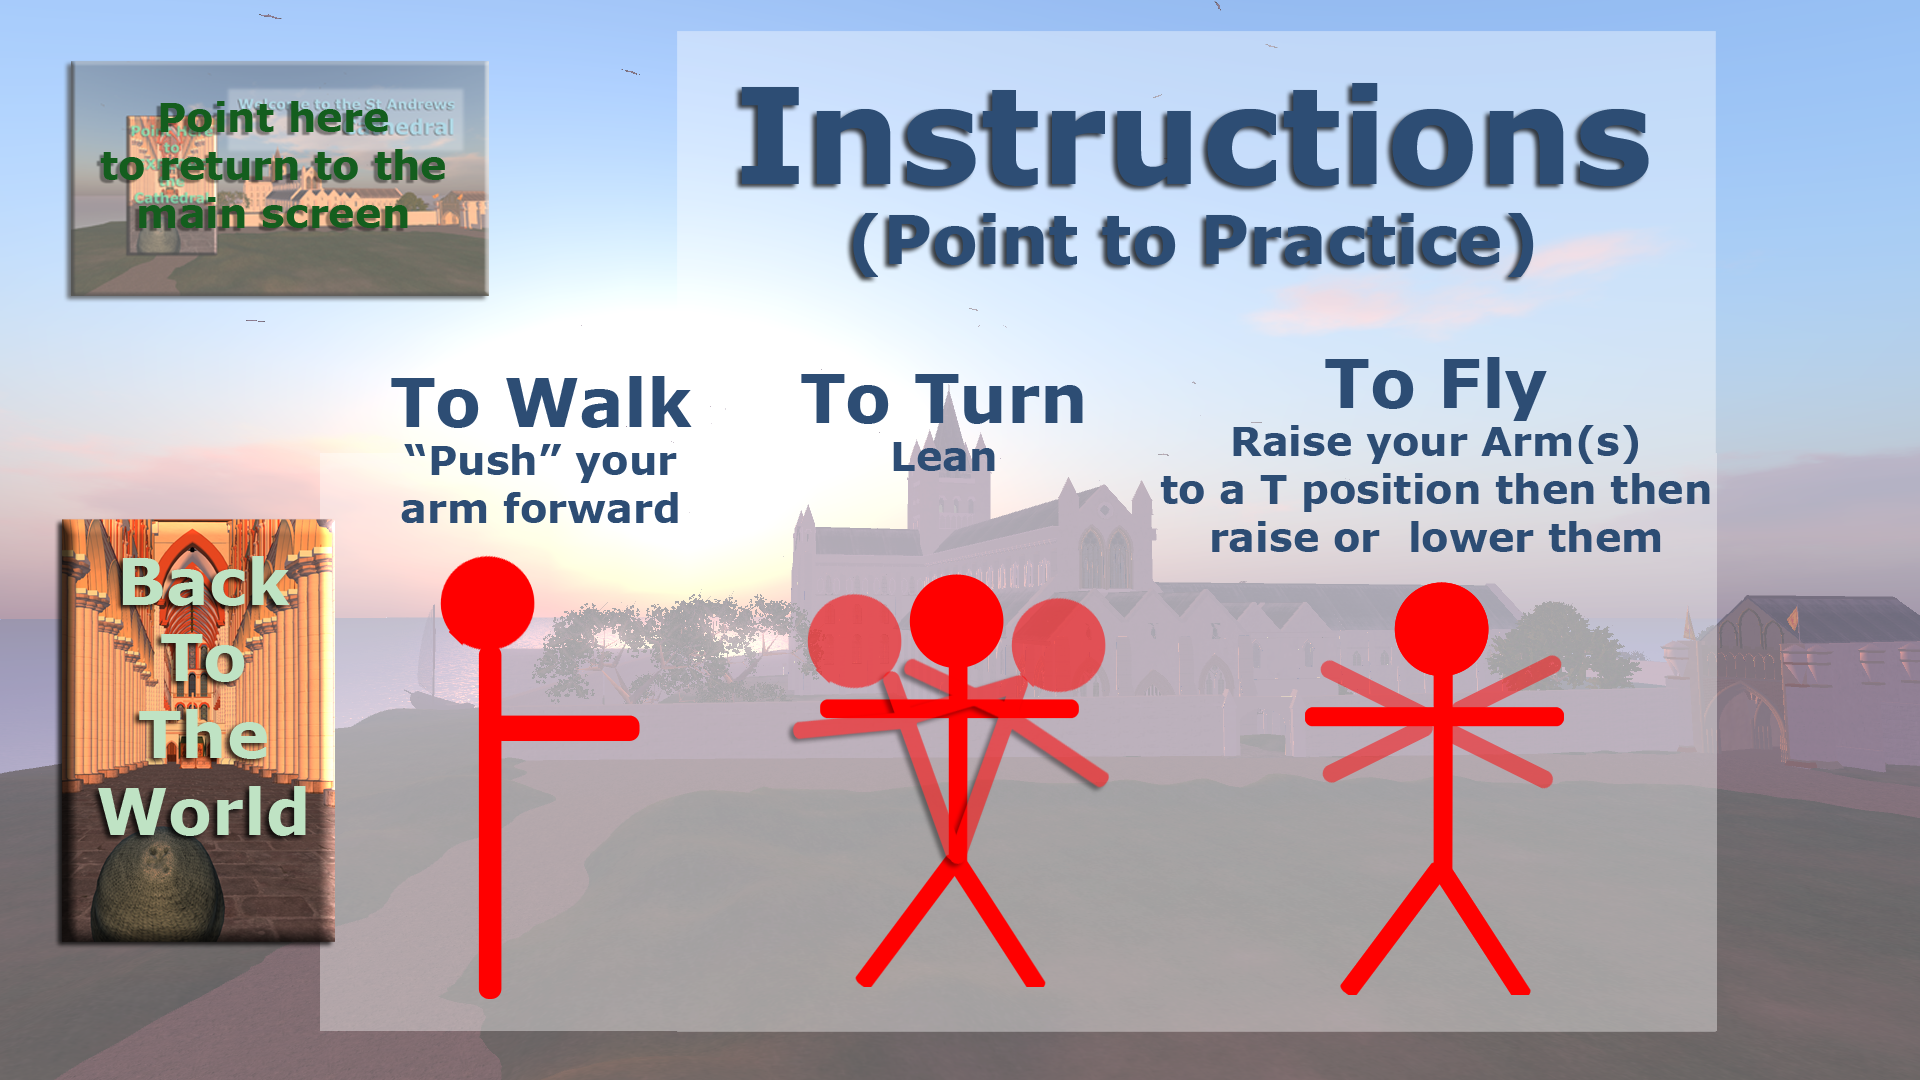
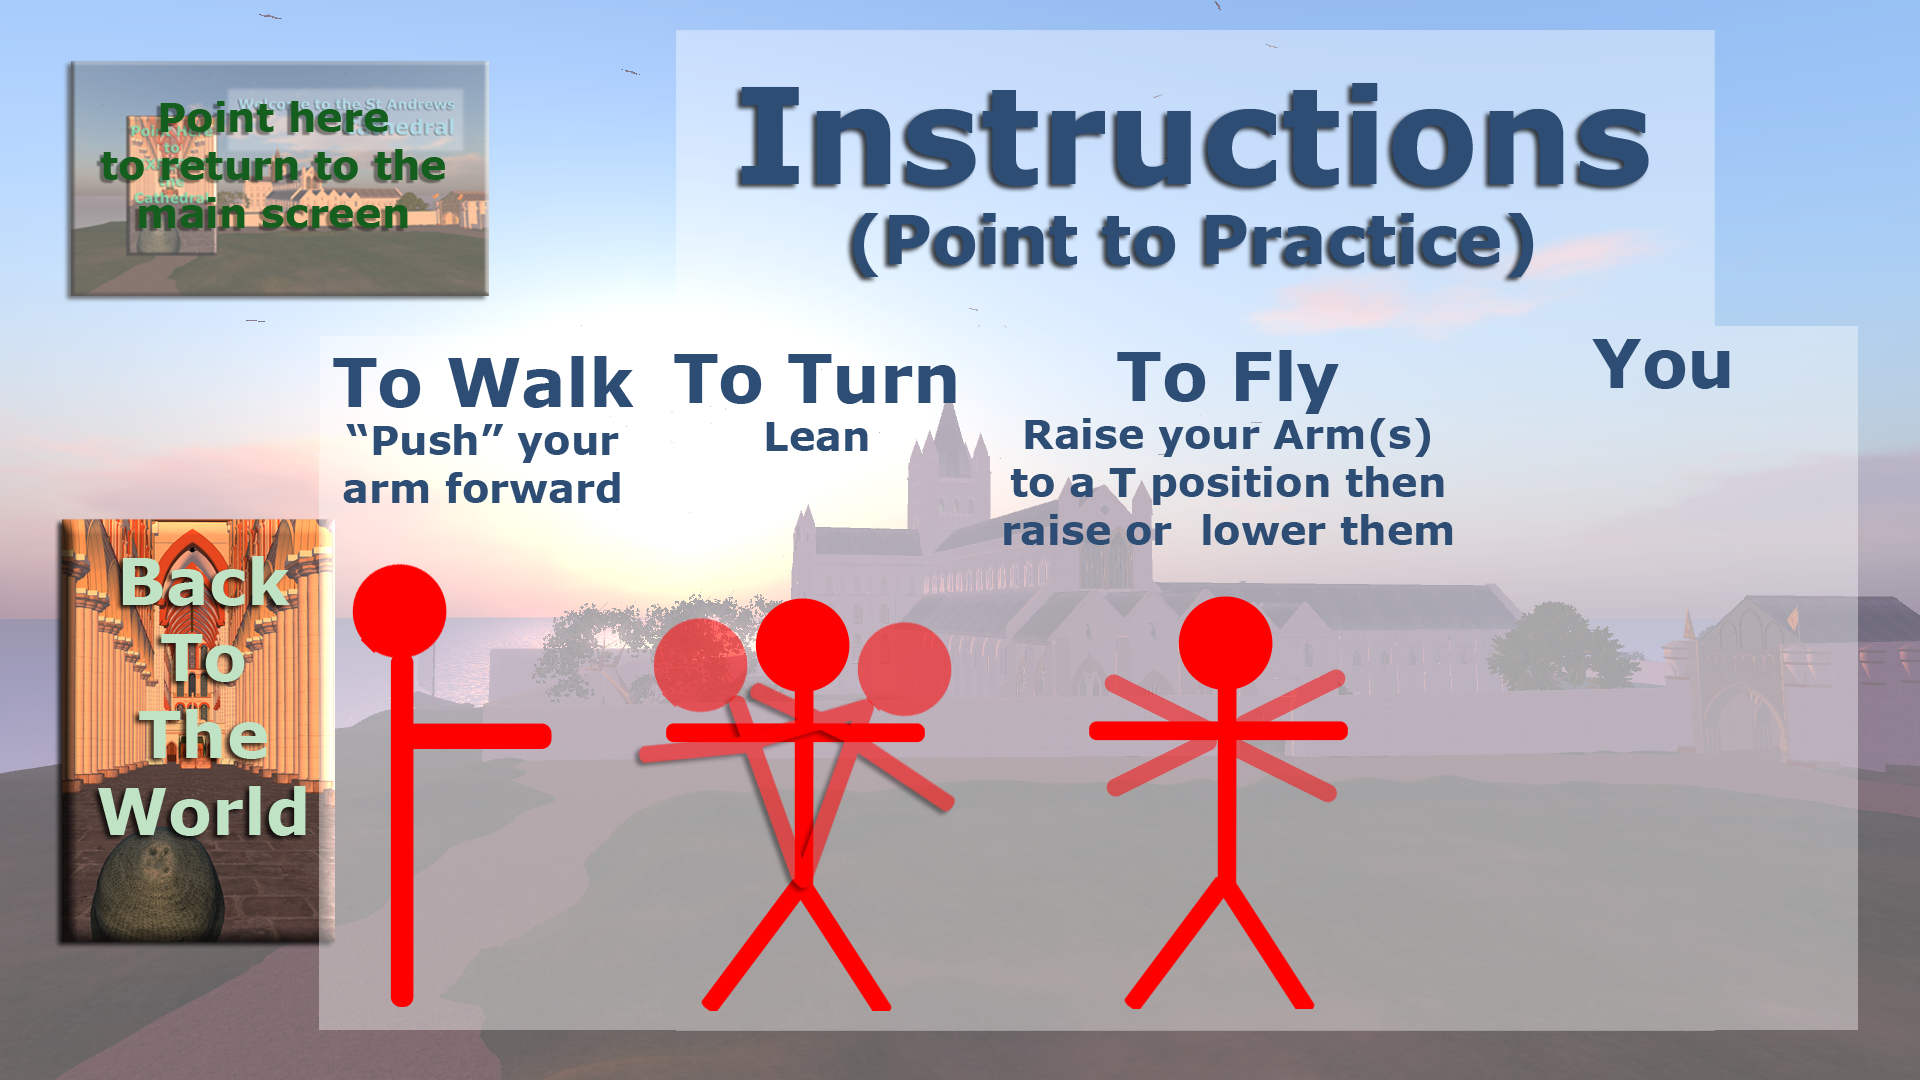
Switched to Cathedral config.

diff --git a/Src/LauncherLib/SimpleOverlay.cs b/Src/LauncherLib/SimpleOverlay.cs
@@ -102,7 +102,8 @@ namespace Chimera.GUI.Forms {
         /// <summary>
         /// The flythrough to load whilst nothing else is happening.
         /// </summary>
-        private string mIntroFlythrough = "../Caen-long.xml";
+        //private string mIntroFlythrough = "../Caen-long.xml";
+        private string mIntroFlythrough = "../CathedralFlythrough-LookAt.xml";
         /// <summary>
         /// The flythrough controller.
         /// </summary>
@@ -115,13 +116,13 @@ namespace Chimera.GUI.Forms {
         /// <summary>
         /// The main menu image.
         /// </summary>
-        private Bitmap mMainMenuImage = new Bitmap("../Images/CaenSplashScreen.png");
-        //private Bitmap mMainMenuImage = new Bitmap("../Images/CathedralSplashScreen.png");
+        //private Bitmap mMainMenuImage = new Bitmap("../Images/CaenSplashScreen.png");
+        private Bitmap mMainMenuImage = new Bitmap("../Images/CathedralSplashScreen.png");
         /// <summary>
         /// The help image.
         /// </summary>
-        private Bitmap mCathedralHelpImage = new Bitmap("../Images/CaenHelp.png");
-        //private Bitmap mCathedralHelpImage = new Bitmap("../Images/CathedralHelp.png");
+        //private Bitmap mCathedralHelpImage = new Bitmap("../Images/CaenHelp.png");
+        private Bitmap mCathedralHelpImage = new Bitmap("../Images/CathedralHelp.png");
 
         /// <summary>
         /// Whether to go full screen.
@@ -175,16 +176,19 @@ namespace Chimera.GUI.Forms {
             mCathedralHelpImage = new Bitmap(mCathedralHelpImage, s);
 
             mGoInWorldRender = new NumberSelectionRenderer();
-            mGoInWorld = new InvisibleSelection(mGoInWorldRender, 155f / 1920, 220f / 1080, (555f-155f) / 1920, (870f - 220f) / 1080);
+            //mGoInWorld = new InvisibleSelection(mGoInWorldRender, 155f / 1920, 220f / 1080, (555f - 155f) / 1920, (870f - 220f) / 1080);
+            mGoInWorld = new InvisibleSelection(mGoInWorldRender, 265f / 1920, 255f / 1080, (675f - 255f) / 1920, (900f - 255f) / 1080);
             mGoInWorld.Selected += new Action<ISelectable>(mGoInWorld_Selected);
 
             mGoMainMenuRender = new NumberSelectionRenderer();
-            mGoMainMenu = new InvisibleSelection(mGoMainMenuRender, 70f / 1920, 65f / 1080, (490f-70f) / 1920, (300f - 65f) / 1080);
+            //mGoMainMenu = new InvisibleSelection(mGoMainMenuRender, 70f / 1920, 65f / 1080, (490f - 70f) / 1920, (300f - 65f) / 1080);
+            mGoMainMenu = new InvisibleSelection(mGoMainMenuRender, 70f / 1920, 65f / 1080, (490f - 70f) / 1920, (300f - 65f) / 1080);
             mGoMainMenu.Selected += new Action<ISelectable>(mGoMainMenu_Selected);
             mGoMainMenu.Active = false;
 
             mGoInWorldHelpRender = new NumberSelectionRenderer();
-            mGoInWorldHelp = new InvisibleSelection(mGoInWorldHelpRender, 55f / 1920, 515f / 1080, (330f-55f) / 1920, (950f - 515f) / 1080);
+            //mGoInWorldHelp = new InvisibleSelection(mGoInWorldHelpRender, 55f / 1920, 515f / 1080, (330f - 55f) / 1920, (950f - 515f) / 1080);
+            mGoInWorldHelp = new InvisibleSelection(mGoInWorldHelpRender, 60f / 1920, 520f / 1080, (335f - 60f) / 1920, (945f - 520f) / 1080);
             mGoInWorldHelp.Selected += new Action<ISelectable>(mGoInWorldHelp_Selected);
             mGoInWorldHelp.Active = false;
 
@@ -238,7 +242,8 @@ namespace Chimera.GUI.Forms {
         }
 
         void Nui_SkeletonLost() {
-            mSkeletonLost = DateTime.Now;
+            mSkeletonLost = DateTime.Now;
+
             switch (mSkeletonCount++ % 3) {
                 case 0: mSkeletonColour = Color.Red; break;
                 case 1: mSkeletonColour = Color.Green; break;
